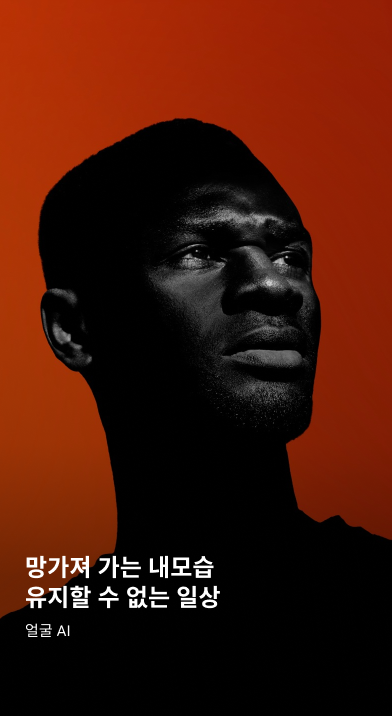
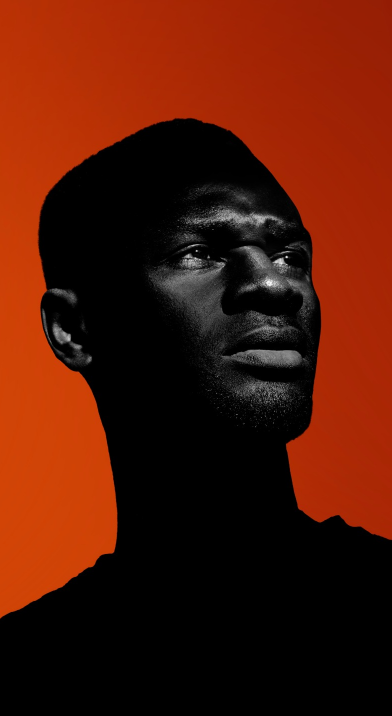
Feat: 홈화면

diff --git a/Project/Front-end/src/pages/Homepage/HomePage.js b/Project/Front-end/src/pages/Homepage/HomePage.js
@@ -6,13 +6,13 @@ export const Home = () => {
     return (
         <div className="display">
             <Nav className="nav-instance" />
-            <div className="home">
+            <div className="home smooth-scroll">
                 <div className="homepages">
-                    <Frame link="" backimage="img1" text1="대한민국의 마약 근절을 위해 노력합니다." text2=""/>
-                    <Frame link="simul" backimage="img2" text1="‘한번쯤은’ 이라는 생각, 두 번 다시 돌아오지 못합니다." text2="시뮬레이션 확인하기"/>
-                    <Frame link="test" backimage="img3" text1="누구든 시작할 수 있습니다. 하지만 벗어날 수 없습니다." text2="마약 취약성 확인하기"/>
-                    <Frame link="ai" backimage="img4" text1="망가져 가는 내모습 유지할 수 없는 일상" text2="얼굴AI"/>
-                    <Frame link="chatting" backimage="img5" text1="궁금한 내용이 더 생겼나요? 도움이 필요하신가요?" text2="chatting"/>
+                    <Frame link="" backimage="home1" text1="대한민국의 마약 근절을 위해 노력합니다." text2=""/>
+                    <Frame link="simul" backimage="home2" text1="‘한번쯤은’ 이라는 생각, 두 번 다시 돌아오지 못합니다." text2="시뮬레이션 확인하기"/>
+                    <Frame link="test" backimage="home3" text1="누구든 시작할 수 있습니다. 하지만 벗어날 수 없습니다." text2="마약 취약성 확인하기"/>
+                    <Frame link="ai" backimage="home4" text1="망가져 가는 내모습 유지할 수 없는 일상" text2="얼굴AI"/>
+                    <Frame link="chatting" backimage="home5" text1="궁금한 내용이 더 생겼나요? 도움이 필요하신가요?" text2="chatting"/>
                 </div>
             </div>
         </div>

diff --git a/Project/Front-end/src/components/Home/HomeFrame.css b/Project/Front-end/src/components/Home/HomeFrame.css
@@ -7,20 +7,32 @@
   position: relative;
 }
 
-.frame .img1 {
-  background-image: url(.../assets/images/home1.png);
+img {
+  object-fit: cover;
 }
-.frame .img2 {
-  background-image: url(.../assets/images/home2.png);
+
+.home1 {
+  content: url(assets/images/home1.png);
 }
-.frame .img3 {
-  background-image: url(.../assets/images/home3.png);
+.home2 {
+  content: url(assets/images/home2.png);
 }
-.frame .img4 {
-  background-image: url(.../assets/images/home4.png);
+.home3 {
+  content: url(assets/images/home3.png);
 }
-.frame .img5 {
-  background-image: url(.../assets/images/home5.png);
+.home4 {
+  content: url(assets/images/home4.png);
+}
+.home5 {
+  content: url(assets/images/home5.png);
+}
+
+.big-top {
+  height: 100%;
+  width: 100%;
+  position: absolute;
+  left: 0;
+  top: 0;
 }
 
 
@@ -32,11 +44,6 @@
       rgba(0, 0, 0, 0.47) 80.66%,
       rgba(0, 0, 0, 0.5) 100%
   );
-  height: 716px;
-  left: 0;
-  position: absolute;
-  top: 0;
-  width: 392px;
 }
 
 .frame .group {
@@ -44,13 +51,12 @@
   left: 25px;
   position: absolute;
   top: 553px;
-  width: 233px;
+  width: 50%;
+  min-width: 250px;
 }
 
 .frame .overlap-group {
-  height: 101px;
   position: relative;
-  width: 229px;
 }
 
 .frame .title {

diff --git a/Project/Front-end/src/components/Home/HomeFrame.js b/Project/Front-end/src/components/Home/HomeFrame.js
@@ -1,0 +1,22 @@
+import React from "react";
+import { Link } from "react-router-dom";
+import "./HomeFrame.css";
+
+export const Frame = ({ backimage, text1, text2, link }) => {
+    return (
+        <div className={`frame`}>
+            <div className={`overlap `}>
+                <div className="rectangle big-top" />
+                <img className={`big-top img ${backimage}`}></img>
+                <div className="group">
+                  <Link to={`/${link}`} className="overlap-group">
+                    <p className="title btx">
+                        {text1}
+                    </p>
+                    <div className="subtitle stx">{text2}</div>
+                  </Link>
+                </div>
+            </div>
+        </div>
+    );
+};

diff --git a/Project/Front-end/src/pages/Homepage/HomePage.css b/Project/Front-end/src/pages/Homepage/HomePage.css
@@ -1,5 +1,4 @@
 .display {
-    background-color: aqua;
-    min-height: 100vh;
+    height: 100vh;
     width: 100vw;
 }
